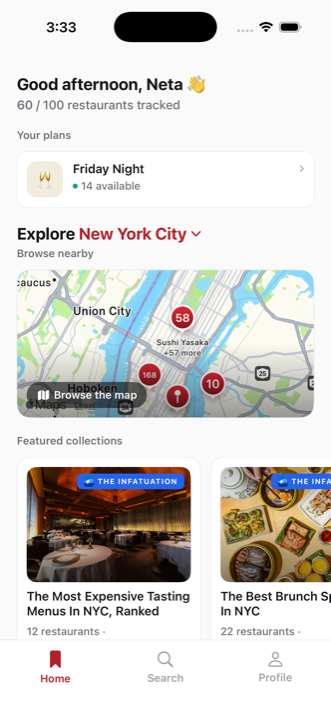
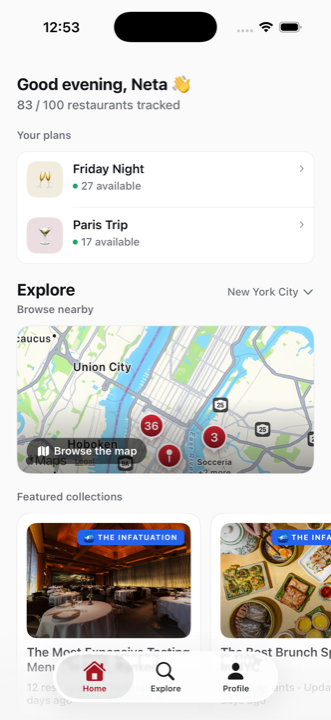
Refresh the Snagr board with six current screens, including Paris Trip and dark mode

diff --git a/src/components/perspective/SnagrBoard.tsx b/src/components/perspective/SnagrBoard.tsx
@@ -11,19 +11,21 @@ const BASE = process.env.NEXT_PUBLIC_BASE_PATH ?? "";
 // camera to its frame. Pinch (or Cmd/Ctrl + scroll) still zooms manually.
 type Region = { x: number; y: number; w: number; h: number };
 
-const CANVAS = { w: 1520, h: 1360 };
+const CANVAS = { w: 1900, h: 1400 };
 
 const REGIONS: Record<string, Region> = {
-  overview: { x: 10, y: 10, w: 1500, h: 1290 },
+  overview: { x: 10, y: 10, w: 1870, h: 1350 },
   brand: { x: 20, y: 20, w: 340, h: 190 },
   journeymap: { x: 20, y: 220, w: 520, h: 390 },
   designsystem: { x: 20, y: 640, w: 480, h: 700 },
-  personas: { x: 1140, y: 640, w: 370, h: 670 },
-  home: { x: 550, y: 20, w: 270, h: 620 },
-  map: { x: 850, y: 20, w: 270, h: 620 },
-  explore: { x: 1150, y: 20, w: 270, h: 620 },
-  plans: { x: 850, y: 640, w: 270, h: 650 },
-  marketing: { x: 520, y: 660, w: 310, h: 340 },
+  personas: { x: 1480, y: 390, w: 380, h: 700 },
+  home: { x: 550, y: 20, w: 270, h: 640 },
+  map: { x: 850, y: 20, w: 270, h: 640 },
+  explore: { x: 1150, y: 20, w: 270, h: 640 },
+  parisplan: { x: 550, y: 640, w: 270, h: 660 },
+  planmenu: { x: 850, y: 640, w: 270, h: 660 },
+  darkmode: { x: 1150, y: 640, w: 270, h: 660 },
+  marketing: { x: 1480, y: 20, w: 340, h: 350 },
 };
 
 // Which region each case-study section focuses.
@@ -34,15 +36,15 @@ const SECTION_TO_REGION: Record<string, string> = {
   "the-journey-before-snagr": "journeymap",
   "the-journey-with-snagr": "explore",
   "why-this-solution-and-what-i-rejected": "home",
-  "breaking-the-one-reservation-model": "plans",
+  "breaking-the-one-reservation-model": "parisplan",
   "how-it-evolved-four-products-four-lessons": "overview",
   "research-honestly": "map",
-  "what-i-learned": "overview",
+  "what-i-learned": "darkmode",
   "stack-and-what-each-piece-bought": "designsystem",
   backend: "overview",
   "availability-acquisition-the-hard-part": "map",
-  "demand-is-the-scheduler": "home",
-  "notifications-engineered-as-suppression": "home",
+  "demand-is-the-scheduler": "parisplan",
+  "notifications-engineered-as-suppression": "planmenu",
   infrastructure: "overview",
 };
 
@@ -524,14 +526,14 @@ export default function SnagrBoard() {
           <Screen
             file="home.png"
             title="Home · your plans"
-            caption="A plan quietly watching, 60 of 100 restaurants tracked, then the city."
+            caption="Two plans quietly watching, 83 of 100 restaurants tracked, then the city."
           />
         </div>
         <div className="absolute" style={{ left: 860, top: 60 }}>
           <Screen
             file="map.png"
             title="Browse nearby · the map"
-            caption="300 tracked tables in this area; pins carry the counts, not the pitch."
+            caption="237 restaurants in this area. Tap a pin and the only verb is add to a plan."
           />
         </div>
         <div className="absolute" style={{ left: 1160, top: 60 }}>
@@ -541,16 +543,30 @@ export default function SnagrBoard() {
             caption="Editorial lists as the entry point: occasion, neighborhood, hard to book."
           />
         </div>
+        <div className="absolute" style={{ left: 560, top: 680 }}>
+          <Screen
+            file="paris-plan.png"
+            title="Inside a plan · Paris Trip"
+            caption="Five dates, 2 to 5 people, two guides in one plan. The date strip carries the counts: 6 open Monday, Tuesday already booked."
+          />
+        </div>
         <div className="absolute" style={{ left: 860, top: 680 }}>
           <Screen
-            file="plan-inside.png"
-            title="Inside a plan · picking a night"
-            caption="One list, seven dates, 2 to 4 people. The date strip carries the counts: 12 open Thursday, none yet Sunday."
+            file="plan-menu.png"
+            title="A plan is group-native"
+            caption="Add people, add a table you booked elsewhere, mute the noise. The plan is the shared object, not the account."
+          />
+        </div>
+        <div className="absolute" style={{ left: 1160, top: 680 }}>
+          <Screen
+            file="home-dark.png"
+            title="Home · dark"
+            caption="The same screen after dark: semantic colors, so the red stays the one thing that means live."
           />
         </div>
 
         {/* Marketing poster */}
-        <div className="absolute" style={{ left: 530, top: 680 }}>
+        <div className="absolute" style={{ left: 1500, top: 60 }}>
           <Draggable>
             <FrameLabel>Marketing</FrameLabel>
             <div className="w-[290px] overflow-hidden rounded-2xl bg-black shadow-sm">
@@ -575,7 +591,7 @@ export default function SnagrBoard() {
         </div>
 
         {/* Personas, straight off the whiteboard */}
-        <div className="absolute" style={{ left: 1160, top: 680 }}>
+        <div className="absolute" style={{ left: 1500, top: 420 }}>
           <PersonaSketch
             variant="maya"
             name="Maya, 29"
@@ -589,7 +605,7 @@ export default function SnagrBoard() {
             rotate="rotate-[-1.5deg]"
           />
         </div>
-        <div className="absolute" style={{ left: 1160, top: 1010 }}>
+        <div className="absolute" style={{ left: 1500, top: 760 }}>
           <PersonaSketch
             variant="dan"
             name="Dan, 31"
